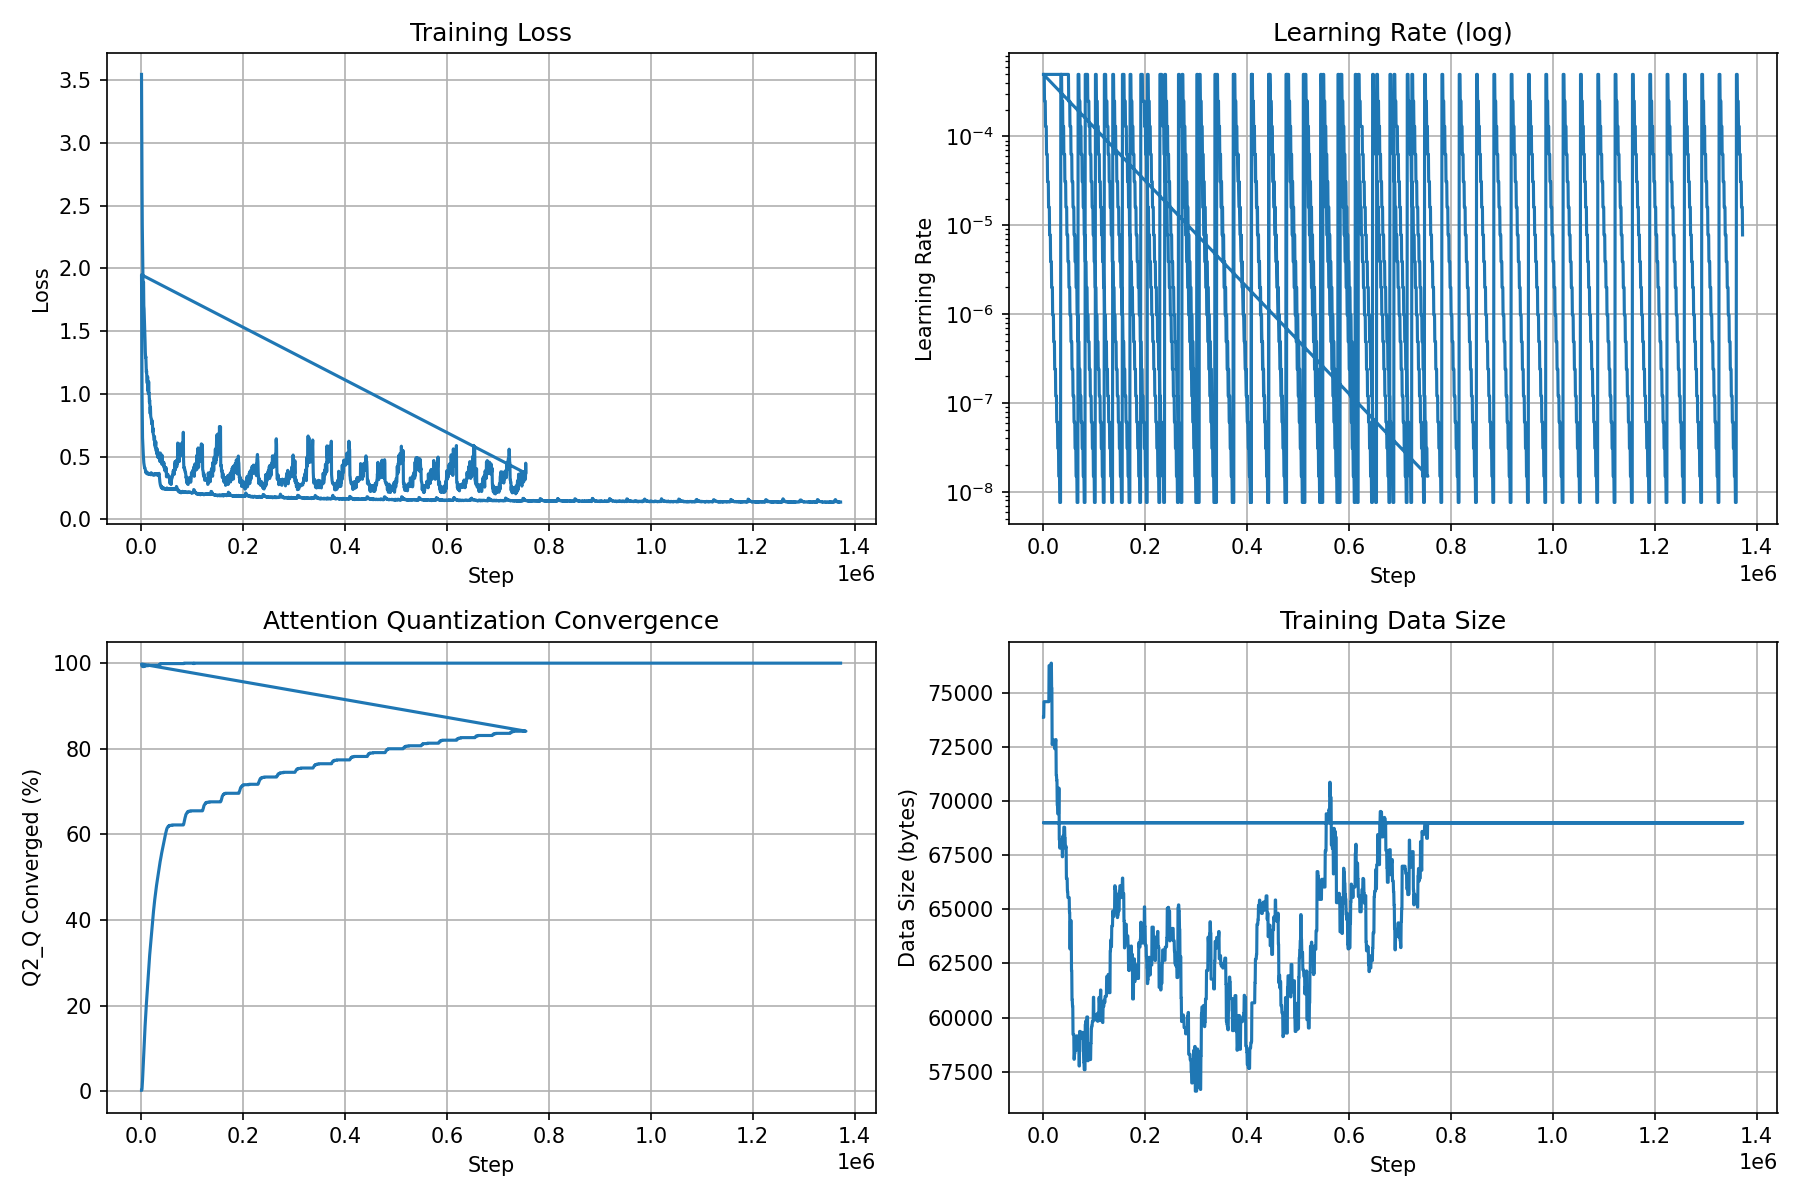
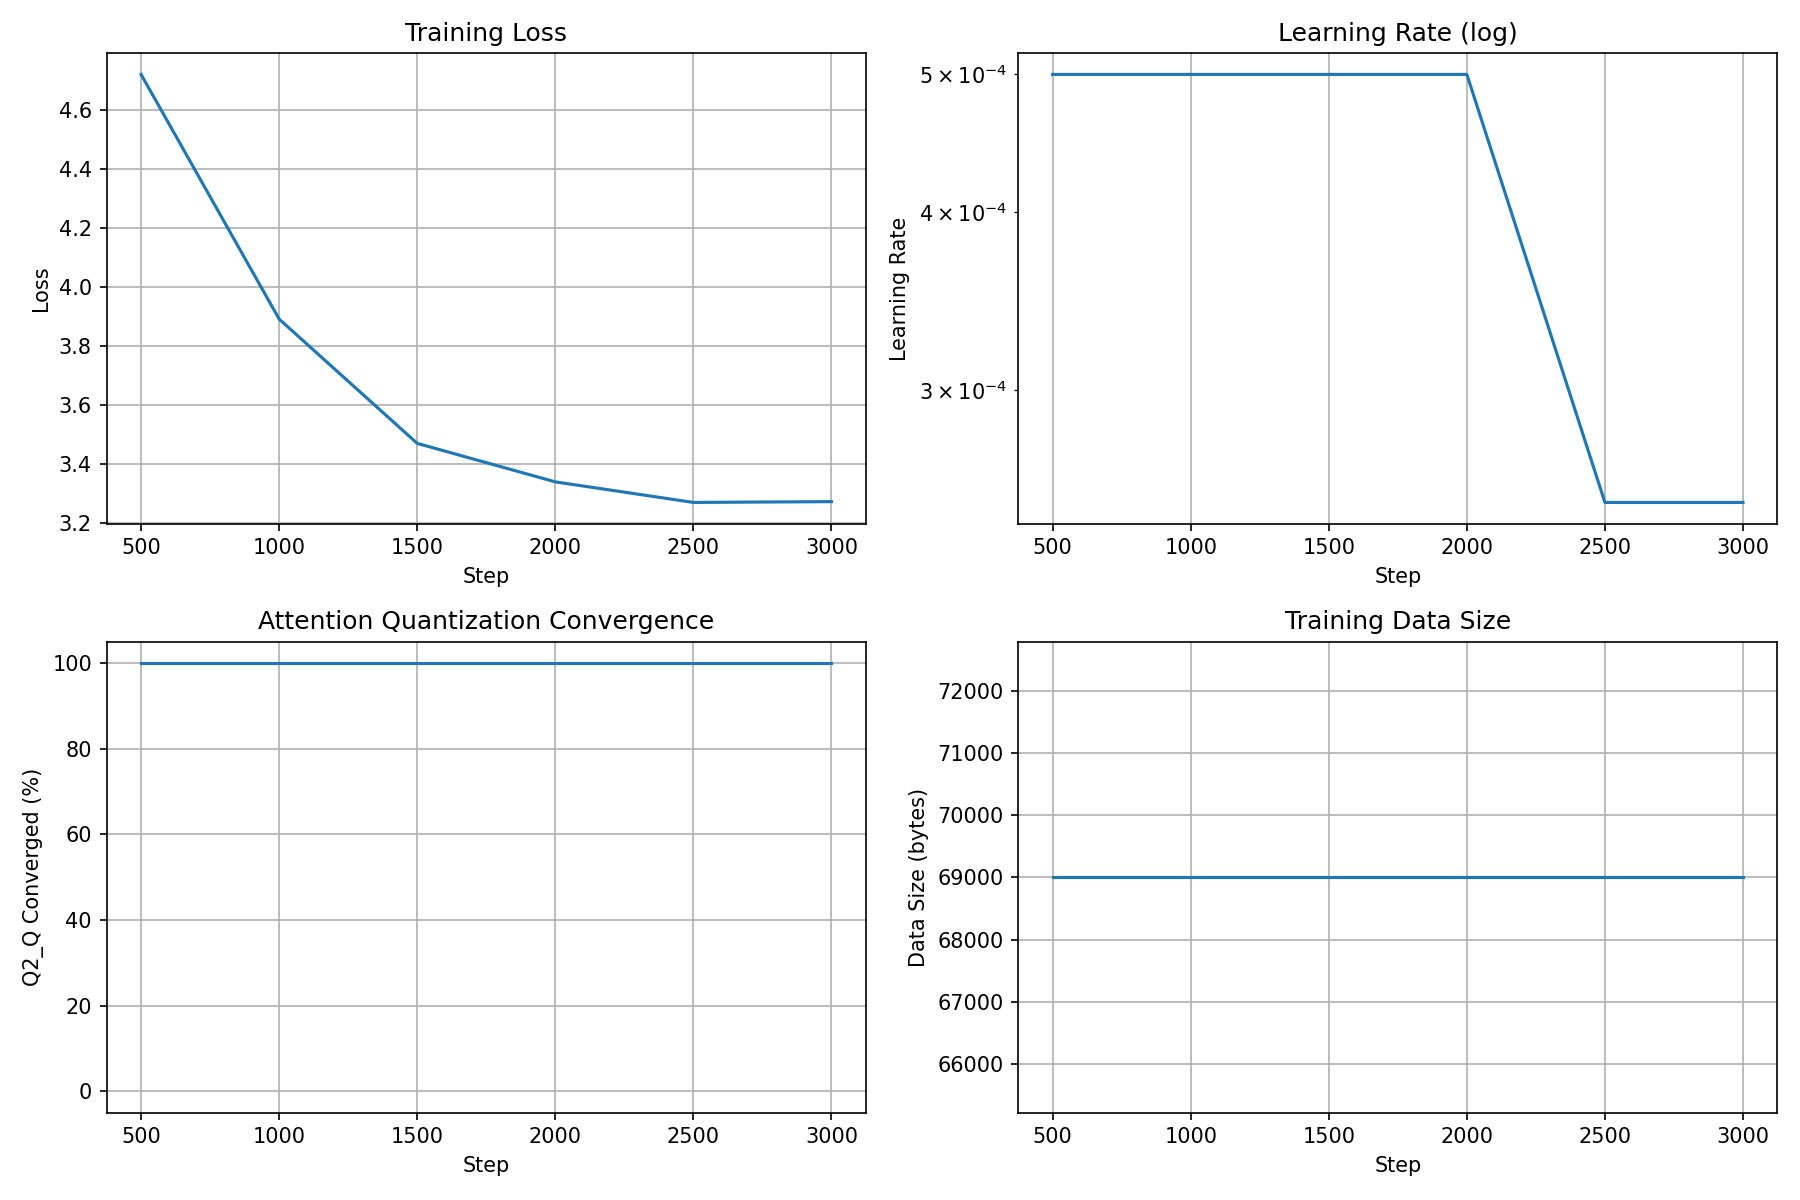
Lower growth trigger: grow when Q2_Q >98% and loss <5.0 even if LR not exhausted

diff --git a/teacher_pipeline.py b/teacher_pipeline.py
@@ -756,8 +756,8 @@ if __name__ == "__main__":
                     q_ratio_steps += SAVE_INTERVAL
                 if q_ratio_steps > 0 and q_ratio_steps % 2000 == 0:
                     old_lr = opt.param_groups[0]['lr']
-                    if old_lr < 1e-8 and q_ratio > 95:
-                        # Model fully converged and LR exhausted → grow
+                    if q_ratio > 95 and (old_lr < 1e-8 or (q_ratio > 98 and loss.item() < 5.0)):
+                        # Model converged → grow (either LR exhausted or loss plateaued)
                         _model = _model.grow()
                         opt = torch.optim.AdamW(_model.parameters(), lr=LR)
                         best_q_ratio = 0.0